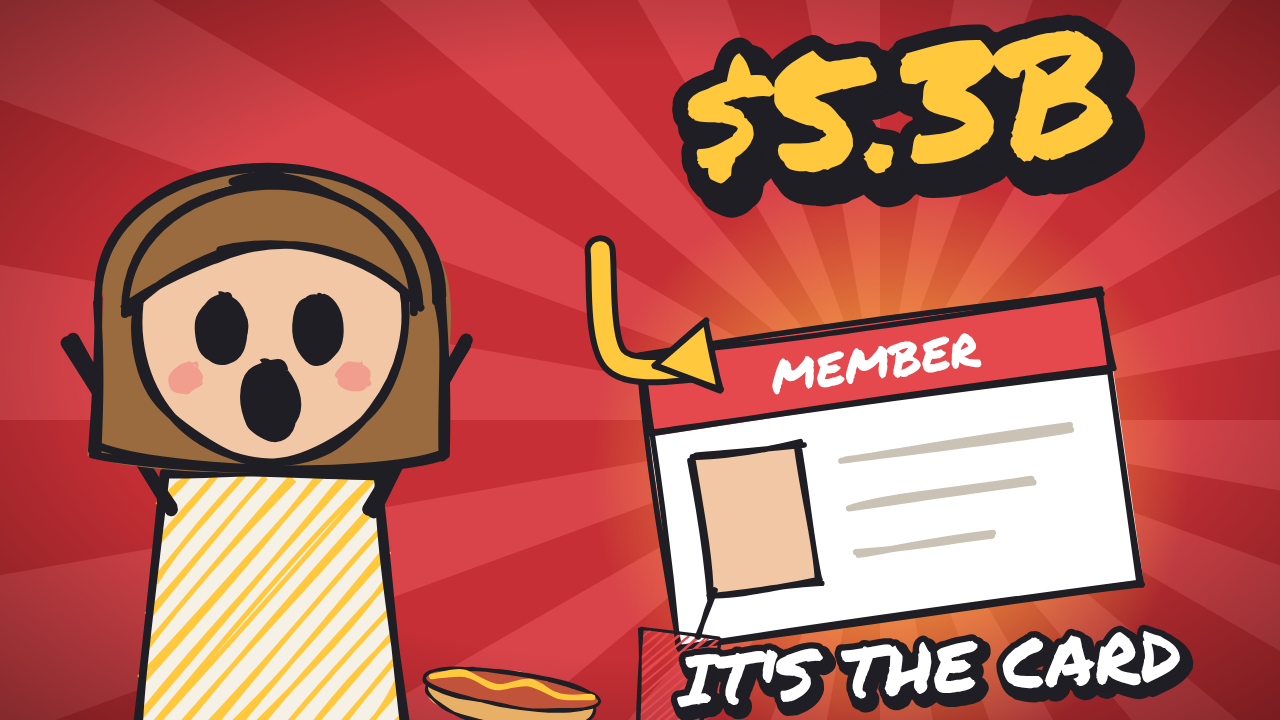
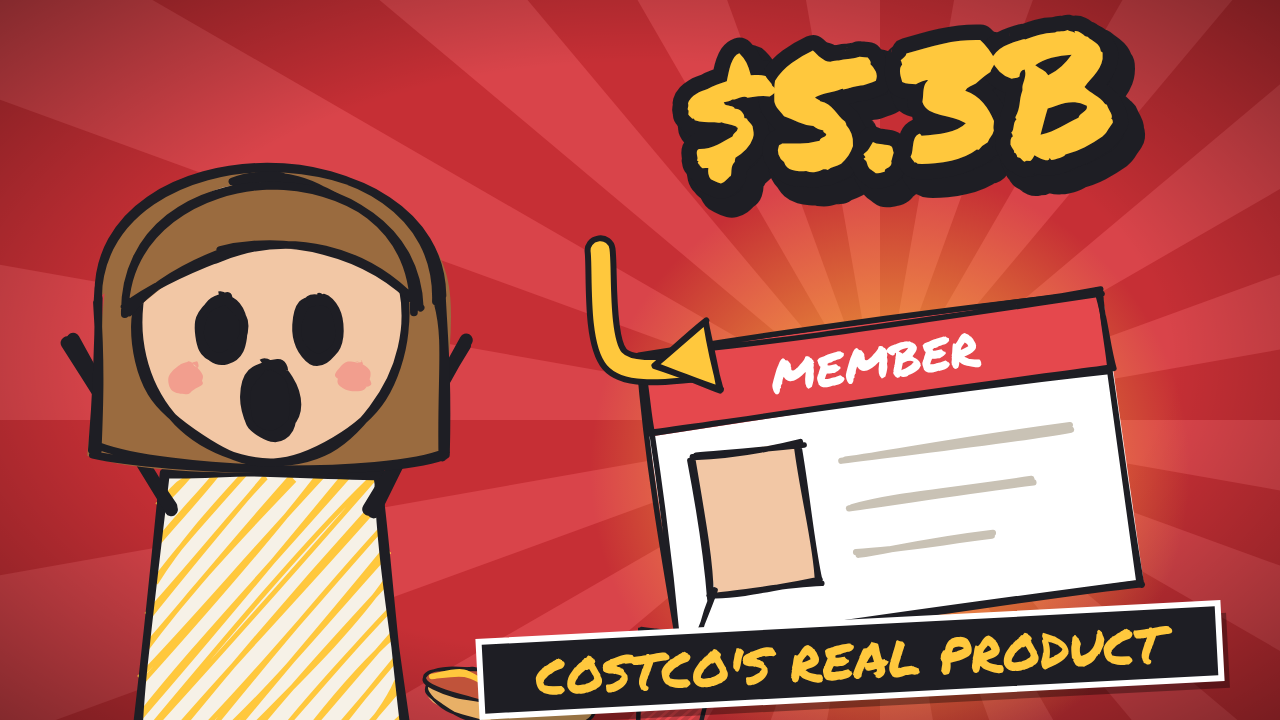
Thumbnails: add catchphrase ribbons
Claude-Session: https://claude.ai/code/session_019UqVAbhSHUU6wetyF5bYLf

Changed region(s): [[0.3438, 0.825, 0.9688, 1.0]]

diff --git a/youtube_channel/animation/src/lib/thumbkit.tsx b/youtube_channel/animation/src/lib/thumbkit.tsx
@@ -95,3 +95,23 @@ export const ThumbPenny: React.FC<{children: React.ReactNode}> = ({children}) =>
 		{children}
 	</g>
 );
+
+/** Tilted ribbon banner with a catchphrase, centred at (x,y). */
+export const Ribbon: React.FC<{x: number; y: number; w: number; text: string; bg?: string; color?: string; size?: number; rotate?: number}> = ({
+	x,
+	y,
+	w,
+	text,
+	bg = C.ink,
+	color = C.yellow,
+	size = 54,
+	rotate = -3,
+}) => (
+	<g transform={`translate(${x} ${y}) rotate(${rotate})`}>
+		<rect x={-w / 2 + 8} y={-size * 0.75 + 10} width={w} height={size * 1.5} fill="#000" opacity={0.35} />
+		<rect x={-w / 2} y={-size * 0.75} width={w} height={size * 1.5} fill={bg} stroke={C.white} strokeWidth={6} />
+		<text textAnchor="middle" dominantBaseline="middle" fontFamily={MARKER} fontSize={size} fill={color} y={4}>
+			{text}
+		</text>
+	</g>
+);

diff --git a/youtube_channel/animation/src/ep02/Thumb.tsx b/youtube_channel/animation/src/ep02/Thumb.tsx
@@ -2,7 +2,7 @@ import React from 'react';
 import {Penny} from '../lib/characters';
 import {HotDog, MemberCard} from '../lib/props2';
 import {C, G} from '../lib/rough';
-import {Arrow, Burst, Glow, Headline, ThumbPenny, ThumbFrame} from '../lib/thumbkit';
+import {Arrow, Burst, Glow, Headline, ThumbPenny, Ribbon, ThumbFrame} from '../lib/thumbkit';
 
 /** Ep. 2 thumbnail: giant membership card as the real product, "$5.3B" from fees. */
 export const Ep02Thumb: React.FC = () => (
@@ -22,8 +22,6 @@ export const Ep02Thumb: React.FC = () => (
 		<Headline x={900} y={115} size={170}>
 			$5.3B
 		</Headline>
-		<Headline x={930} y={672} size={70} color={C.white} rotate={-3}>
-			IT&apos;S THE CARD
-		</Headline>
+		<Ribbon x={850} y={660} w={740} text="COSTCO'S REAL PRODUCT" size={50} />
 	</ThumbFrame>
 );

diff --git a/youtube_channel/animation/src/ep03/Thumb.tsx b/youtube_channel/animation/src/ep03/Thumb.tsx
@@ -1,7 +1,7 @@
 import React from 'react';
 import {Penny} from '../lib/characters';
 import {G} from '../lib/rough';
-import {Burst, Glow, Headline, ThumbPenny, Ring, ThumbFrame} from '../lib/thumbkit';
+import {Burst, Glow, Headline, ThumbPenny, Ring, Ribbon, ThumbFrame} from '../lib/thumbkit';
 import {CreditCard} from './Ep03';
 
 /** Ep. 3 thumbnail: glowing credit card, "19 YEARS?!" to pay off the minimum. */
@@ -19,8 +19,6 @@ export const Ep03Thumb: React.FC = () => (
 		<Headline x={880} y={110} size={150}>
 			19 YEARS?!
 		</Headline>
-		<Headline x={900} y={672} size={62} color={'#FFFFFF'} rotate={-3}>
-			THE MINIMUM TRAP
-		</Headline>
+		<Ribbon x={860} y={660} w={740} text="DON'T PAY THE MINIMUM" size={50} />
 	</ThumbFrame>
 );

diff --git a/youtube_channel/animation/src/ep01/Thumb.tsx b/youtube_channel/animation/src/ep01/Thumb.tsx
@@ -2,7 +2,7 @@ import React from 'react';
 import {Broker, Penny} from '../lib/characters';
 import {Cash} from '../lib/props';
 import {G} from '../lib/rough';
-import {Arrow, Burst, Glow, Headline, ThumbPenny, ThumbFrame} from '../lib/thumbkit';
+import {Arrow, Burst, Glow, Headline, ThumbPenny, Ribbon, ThumbFrame} from '../lib/thumbkit';
 
 /** Ep. 1 thumbnail: shocked Penny, smirking broker, tiny cash for her guitar, "$150?!". */
 export const Ep01Thumb: React.FC = () => (
@@ -22,5 +22,6 @@ export const Ep01Thumb: React.FC = () => (
 		<Headline x={870} y={150} size={200}>
 			$150?!
 		</Headline>
+		<Ribbon x={860} y={655} w={760} text="THE PAWN SHOP TRICK" />
 	</ThumbFrame>
 );

diff --git a/youtube_channel/animation/src/ep04/Thumb.tsx b/youtube_channel/animation/src/ep04/Thumb.tsx
@@ -1,7 +1,7 @@
 import React from 'react';
 import {Penny} from '../lib/characters';
 import {G} from '../lib/rough';
-import {Burst, Glow, Headline, ThumbPenny, ThumbFrame} from '../lib/thumbkit';
+import {Burst, Glow, Headline, ThumbPenny, Ribbon, ThumbFrame} from '../lib/thumbkit';
 import {SlotMachine} from './Ep04';
 
 /** Ep. 4 thumbnail: shocked Penny, jackpot slot machine, "RIGGED BY MATH". */
@@ -21,5 +21,6 @@ export const Ep04Thumb: React.FC = () => (
 		<Headline x={800} y={225} size={110} color={'#FFFFFF'}>
 			BY MATH
 		</Headline>
+		<Ribbon x={640} y={660} w={700} text="THE HOUSE NEVER LOSES" bg="#C62F35" color="#FFFFFF" />
 	</ThumbFrame>
 );
